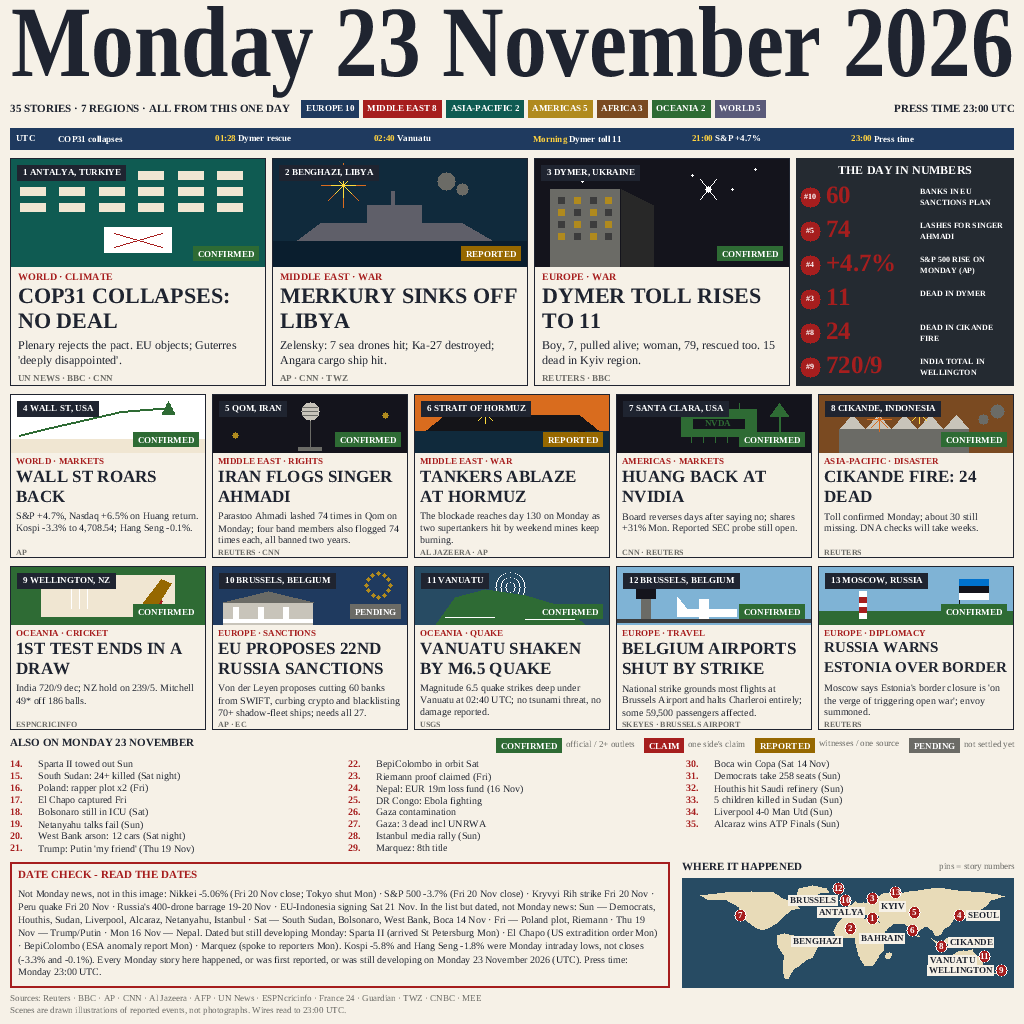
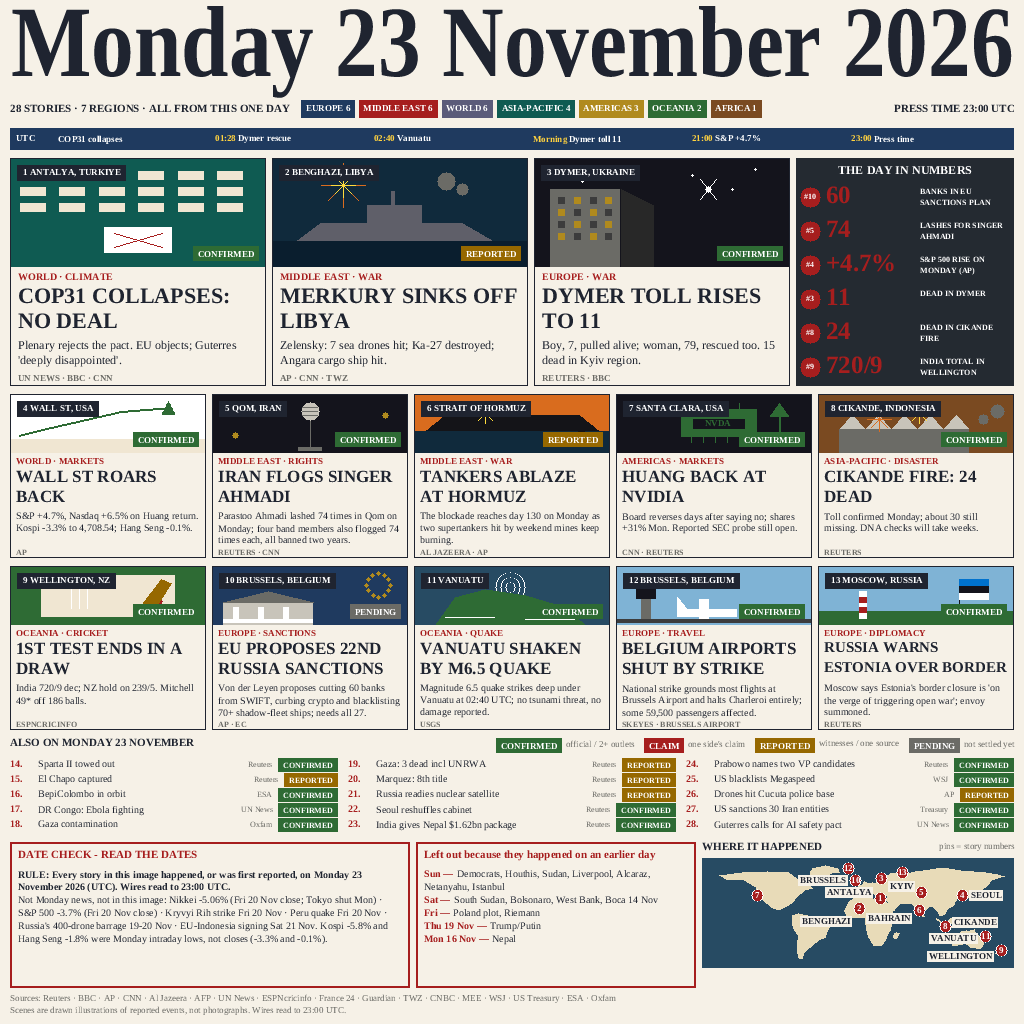
v8: top-3 structure — 28 Monday stories, Left-out box, sources+badges in also-list, strict DATE CHECK rule, map tidied

Changed region(s): [[0.0, 0.7188, 1.0, 0.9688], [0.3438, 0.0938, 0.75, 0.125]]

diff --git a/main.py b/main.py
@@ -36,6 +36,20 @@
 # all 15 Earlier items; stat 258 -> 74 Ahmadi; timeline times yellow;
 # map pins inset + de-clustered; also-list 10px; "#" in the stat discs.
 # Same 35 stories, same region counts, same layout as v6.2.
+# v8 (24 Nov, Ban order — top-3 structure, 28 stories, Left-out box):
+# main list holds ONLY Monday stories (first-reported or developing Mon
+# 23 Nov UTC): 13 pictured unchanged + 15 also-list (7 kept + 8 new
+# Monday stories from V8-NEW-STORIES.md). The 15 non-Monday stories
+# leave the also-list for a new box titled exactly "Left out because
+# they happened on an earlier day", grouped by day with dates. Every
+# also-list row carries a source + status badge (CONFIRMED/REPORTED/
+# CLAIM, same legend as the pictured cards). DATE CHECK's first line is
+# the strict rule + "Wires read to 23:00 UTC". Kicker "28 STORIES",
+# region counts EUROPE 6 / MIDDLE EAST 6 / WORLD 6 / ASIA-PACIFIC 4 /
+# AMERICAS 3 / OCEANIA 2 / AFRICA 1. Structure follows the 22 Nov top-3
+# (rank 1 also-list rows carry region+source; rank 2 DATE CHECK holds
+# the rule + left-out list; rank 3 two-column also-list) — layout only,
+# never their wording.
 
 import os
 import struct
@@ -884,6 +898,12 @@ LAND_POLYS = [NA, GREENLAND, SA, AFRICA, EURASIA, UK, JAPAN, AUSTRALIA, NZ,
 # (story, lon, lat, label or None, label side, label dy, pin dx, pin dy).
 # dx/dy nudge a pin in screen px where the coarse map would stack two
 # discs — every pair is now >=13px apart (measured, see EVALUATION.md).
+# v8: Pacific labels separated by dy, not by stacking: VANUATU sits at
+# pin height (dy +2, rect y 933-944) and WELLINGTON 6px lower (dy +6,
+# rect y 951-962) — 7px clear of each other, 1px clear of Cikande's
+# disc (bottom 932) and of their own discs. (First try dy -14 put the
+# VANUATU label on top of pin 8 / the CIKANDE label — caught by the
+# programmatic pairwise check, not by eye.)
 # Qom (5) and Moscow (13) are unlabeled: their cities are in the cards'
 # location chips, and the cluster has no room for six labels in a
 # 60x30px box. Pin 12 (Belgium airports, also Brussels) is nudged NW
@@ -898,9 +918,9 @@ MAP_PINS = [
     (6, 52.5, 27.5, "BAHRAIN", -1, 8, 18, 8),
     (7, -122.0, 37.4, None, 1, 0, 0, 0),
     (8, 106.5, -7.0, "CIKANDE", 1, -4, 0, 0),
-    (9, 174.5, -41.0, "WELLINGTON", -1, 0, 0, 0),
+    (9, 174.5, -41.0, "WELLINGTON", -1, 6, 0, 0),
     (10, 4.35, 50.85, "BRUSSELS", -1, 0, -6, -6),
-    (11, 167.0, -16.0, "VANUATU", -1, 4, -10, 3),
+    (11, 167.0, -16.0, "VANUATU", -1, 2, -10, 3),
     (12, 4.35, 50.85, None, 1, 0, -13, -18),
     (13, 37.6, 55.75, None, 1, 0, 14, -10),
 ]
@@ -1149,7 +1169,7 @@ def scene(cv, x, y, w, h, kind):
 # labels in caps. Wording is otherwise identical.
 MASTHEAD = "Monday 23 November 2026"
 SUBHEAD = "COP31 collapses \u2014 no deal \u00b7 Merkury sunk off Libya \u00b7 Dymer toll rises to 11"
-TOPLINE = "THE WORLD IN ONE DAY \u00b7 35 STORIES \u00b7 7 REGIONS \u00b7 PRESS TIME 23:00 UTC \u00b7 EVERY STORY DATED MONDAY 23 NOVEMBER 2026"
+TOPLINE = "THE WORLD IN ONE DAY \u00b7 28 STORIES \u00b7 7 REGIONS \u00b7 PRESS TIME 23:00 UTC \u00b7 EVERY STORY DATED MONDAY 23 NOVEMBER 2026"
 
 # Timeline: verified times only (see STORY-LIST.md). (minutes from 00:00 UTC,
 # label, label above the bar?) "MORNING" = verified morning, exact hour
@@ -1232,43 +1252,53 @@ SMALL = [
 ]
 
 ALSO = [
-    # v7: 17 stay in relative order + 5 demoted pictured stories
-    # appended with (Sun) tags; promoted stories left the list.
-    (14, "Sparta II towed out Sun"),
-    (15, "South Sudan: 24+ killed (Sat night)"),
-    (16, "Poland: rapper plot x2 (Fri)"),
-    (17, "El Chapo captured Fri"),
-    (18, "Bolsonaro still in ICU (Sat)"),
-    (19, "Netanyahu talks fail (Sun)"),
-    (20, "West Bank arson: 12 cars (Sat night)"),
-    (21, "Trump: Putin 'my friend' (Thu 19 Nov)"),
-    (22, "BepiColombo in orbit Sat"),
-    (23, "Riemann proof claimed (Fri)"),
-    (24, "Nepal: EUR 19m loss fund (16 Nov)"),
-    (25, "DR Congo: Ebola fighting"),
-    (26, "Gaza contamination"),
-    (27, "Gaza: 3 dead incl UNRWA"),
-    (28, "Istanbul media rally (Sun)"),
-    (29, "M\u00e1rquez: 8th title"),
-    (30, "Boca win Copa (Sat 14 Nov)"),
-    (31, "Democrats take 258 seats (Sun)"),
-    (32, "Houthis hit Saudi refinery (Sun)"),
-    (33, "5 children killed in Sudan (Sun)"),
-    (34, "Liverpool 4-0 Man Utd (Sun)"),
-    (35, "Alcaraz wins ATP Finals (Sun)"),
+    # v8: 15 items, ALL Monday (first-reported or developing Mon 23 Nov
+    # UTC). 7 kept (relative order kept, day tags removed) + 8 new Monday
+    # stories (V8-NEW-STORIES.md). Each row: (number, text, source, badge).
+    # Badge per the legend (CONFIRMED = official / 2+ outlets; REPORTED =
+    # single outlet; CLAIM = one side's claim). Region split: Europe 2
+    # (Sparta II, Marquez), Middle East 3 (Gaza x2, Iran sanctions),
+    # World 4 (BepiColombo, Russia satellite, Megaspeed, Guterres),
+    # Asia-Pacific 3 (Seoul, India-Nepal, Prabowo), Americas 2 (El Chapo,
+    # Cucuta), Africa 1 (DR Congo).
+    (14, "Sparta II towed out", "Reuters", "CONFIRMED"),
+    (15, "El Chapo captured", "Reuters", "REPORTED"),
+    (16, "BepiColombo in orbit", "ESA", "CONFIRMED"),
+    (17, "DR Congo: Ebola fighting", "UN News", "CONFIRMED"),
+    (18, "Gaza contamination", "Oxfam", "CONFIRMED"),
+    (19, "Gaza: 3 dead incl UNRWA", "Reuters", "REPORTED"),
+    (20, "Marquez: 8th title", "Reuters", "REPORTED"),
+    (21, "Russia readies nuclear satellite", "Reuters", "REPORTED"),
+    (22, "Seoul reshuffles cabinet", "Reuters", "CONFIRMED"),
+    (23, "India gives Nepal $1.62bn package", "Reuters", "CONFIRMED"),
+    (24, "Prabowo names two VP candidates", "Reuters", "CONFIRMED"),
+    (25, "US blacklists Megaspeed", "WSJ", "CONFIRMED"),
+    (26, "Drones hit Cucuta police base", "AP", "REPORTED"),
+    (27, "US sanctions 30 Iran entities", "Treasury", "CONFIRMED"),
+    (28, "Guterres calls for AI safety pact", "UN News", "CONFIRMED"),
 ]
 
+# v8: the 15 non-Monday stories, grouped by first-report day, for the
+# "Left out because they happened on an earlier day" box. (day label,
+# names) — the box title is Ban's exact wording.
+LEFTOUT = [
+    ("Sun \u2014", "Democrats, Houthis, Sudan, Liverpool, Alcaraz, Netanyahu, Istanbul"),
+    ("Sat \u2014", "South Sudan, Bolsonaro, West Bank, Boca 14 Nov"),
+    ("Fri \u2014", "Poland plot, Riemann"),
+    ("Thu 19 Nov \u2014", "Trump/Putin"),
+    ("Mon 16 Nov \u2014", "Nepal"),
+]
+
+# v8: DATE CHECK — first line is the strict rule + wire-read time; no
+# dated clause (all 28 stories are Monday). The rule is drawn bold, the
+# rest regular (see build()).
+DATECHECK_RULE = ("RULE: Every story in this image happened, or was first reported, "
+    "on Monday 23 November 2026 (UTC). Wires read to 23:00 UTC.")
 DATECHECK = ("Not Monday news, not in this image: Nikkei -5.06% (Fri 20 Nov close; Tokyo shut Mon) \u00b7 "
     "S&P 500 -3.7% (Fri 20 Nov close) \u00b7 Kryvyi Rih strike Fri 20 Nov \u00b7 Peru quake Fri 20 Nov \u00b7 "
-    "Russia's 400-drone barrage 19-20 Nov \u00b7 EU-Indonesia signing Sat 21 Nov. In the list but dated, "
-    "not Monday news: Sun \u2014 Democrats, Houthis, Sudan, Liverpool, Alcaraz, Netanyahu, Istanbul \u00b7 "
-    "Sat \u2014 South Sudan, Bolsonaro, West Bank, Boca 14 Nov \u00b7 Fri \u2014 Poland plot, Riemann \u00b7 "
-    "Thu 19 Nov \u2014 Trump/Putin \u00b7 Mon 16 Nov \u2014 Nepal. Dated but still developing Monday: "
-    "Sparta II (arrived St Petersburg Mon) \u00b7 El Chapo (US extradition order Mon) \u00b7 "
-    "BepiColombo (ESA anomaly report Mon) \u00b7 Marquez (spoke to reporters Mon). "
+    "Russia's 400-drone barrage 19-20 Nov \u00b7 EU-Indonesia signing Sat 21 Nov. "
     "Kospi -5.8% and Hang Seng -1.8% were Monday intraday lows, "
-    "not closes (-3.3% and -0.1%). Every Monday story here happened, or was first reported, or was "
-    "still developing on Monday 23 November 2026 (UTC). Press time: Monday 23:00 UTC.")
+    "not closes (-3.3% and -0.1%).")
 
 
 # ---------------------------------------------------------------- layout (v5)
@@ -1292,8 +1322,9 @@ CATEGORIES = {
     9: "OCEANIA · CRICKET", 10: "EUROPE · SANCTIONS", 11: "OCEANIA · QUAKE",
     12: "EUROPE · TRAVEL", 13: "EUROPE · DIPLOMACY",
 }
-REGION_COUNTS = [("EUROPE", 10), ("MIDDLE EAST", 8), ("ASIA-PACIFIC", 2),
-                 ("AMERICAS", 5), ("AFRICA", 3), ("OCEANIA", 2), ("WORLD", 5)]
+REGION_COUNTS = [("EUROPE", 6), ("MIDDLE EAST", 6), ("WORLD", 6),
+                 ("ASIA-PACIFIC", 4), ("AMERICAS", 3), ("OCEANIA", 2),
+                 ("AFRICA", 1)]
 STAT_STORIES = [10, 5, 4, 3, 8, 9]
 
 # Zone map (1024px, margins 10) — v7, measured from the render:
@@ -1308,10 +1339,10 @@ STAT_STORIES = [10, 5, 4, 3, 8, 9]
 #     story chip disc r10 with "#n" at 8px, v7: Ban)
 #   SMALL CARDS 394-558, 566-730 (164; scene 58; cat 9px; head 17px 2
 #     lines; deck 10px 2-3 lines; src 8px)
-#   ALSO header+legend 738 | ALSO items 760-844 (3 cols x 8 rows, 10px,
-#     12px pitch; v7: Ban) | DATE CHECK + MAP 862-988 (box 660 wide,
-#     10px text, 13px pitch, 7 lines; map 332x110, 8px/4px geo inset)
-#     | FOOTER 994, 1006 (9px)
+#   ALSO header+legend 738 | ALSO items 760-834 (3 cols x 5 rows, 10px,
+#     15px pitch; v8: source + badge chip per row) | DATE CHECK (400) +
+#     LEFT-OUT box (280) + MAP (312x110) 842-988 (boxes 146 tall) |
+#     FOOTER 994, 1006 (9px)
 # "TURKIYE" is spelled without the diaeresis: the glyph set has no Ü
 # (same as v4's "Marquez" — the á is not in the set either).
 def build():
@@ -1326,10 +1357,10 @@ def build():
     # geometry: ~1003px wide, 66px cap, full-bleed like #2's 1000px.
     draw_text_c(cv, W // 2, 5, MASTHEAD, 101, INK, bold=True, xscale=0.845)
 
-    # kicker: "35 STORIES · 7 REGIONS · ALL FROM THIS ONE DAY" + region
+    # kicker: "28 STORIES · 7 REGIONS · ALL FROM THIS ONE DAY" + region
     # chips + "PRESS TIME 23:00 UTC" right (like #2's kicker line).
     ky = 100
-    kicker = "35 STORIES \u00b7 7 REGIONS \u00b7 ALL FROM THIS ONE DAY"
+    kicker = "28 STORIES \u00b7 7 REGIONS \u00b7 ALL FROM THIS ONE DAY"
     draw_text(cv, mx, ky + 4, kicker, 11, INK, bold=True)
     kx = mx + int(text_width(kicker, 11, bold=True)) + 12
     chip_size = 9.0
@@ -1444,28 +1475,57 @@ def build():
         draw_text(cv, lx, ay + 2, desc, 9, GREY)
         lx += dw + 10
 
-    # also-list: 3 columns x 8 rows, 10px (v7: Ban), 12px pitch
-    for i, (n, txt) in enumerate(ALSO):
-        col = i // 8
-        row = i % 8
+    # also-list: 3 columns x 5 rows, 10px, 15px pitch (v8: every row
+    # carries a source + status badge chip, like #1's region+source rows
+    # and #2's badge legend). Badge size 8 (chip h 14) leaves a 1px gap
+    # between rows at 15px pitch. Right edge of each column's badge is
+    # ax+328 (<=1014 on the last column).
+    for i, (n, txt, src, bdg) in enumerate(ALSO):
+        col = i // 5
+        row = i % 5
         ax = mx + col * 338
-        ay2 = 760 + row * 12
+        ay2 = 760 + row * 15
         draw_text(cv, ax, ay2, str(n) + ".", 10, RED, bold=True)
         draw_text(cv, ax + 28, ay2, txt, 10, INK)
+        bw = int(text_width(bdg, 8, bold=True)) + 10
+        bx = ax + 328 - bw
+        sw = int(text_width(src, 8))
+        draw_text(cv, bx - 6 - sw, ay2 + 1, src, 8, GREY)
+        badge(cv, bx, ay2 - 2, bdg, size=8)
 
-    # date check (left) + map (right), side by side like #2
-    dy = 862
-    cv.rect(mx, dy, 660, 126, RED, 2)
+    # bottom row (v8): DATE CHECK (400) + LEFT-OUT box (280) + MAP (312),
+    # boxes 146 tall. DATE CHECK first line is the strict rule, drawn
+    # bold; the rest regular. LEFT-OUT title is Ban's exact wording.
+    dy = 842
+    cv.rect(mx, dy, 400, 146, RED, 2)
     draw_text(cv, mx + 8, dy + 8, "DATE CHECK - READ THE DATES", 11, RED,
               bold=True)
-    text_block(cv, mx + 8, dy + 28, DATECHECK, 10, INK, 644, 13)
-    draw_text(cv, 682, dy, "WHERE IT HAPPENED", 11, INK, bold=True)
+    nrule = text_block(cv, mx + 8, dy + 28, DATECHECK_RULE, 10, INK, 384,
+                       13, bold=True)
+    text_block(cv, mx + 8, dy + 28 + nrule * 13, DATECHECK, 10, INK, 384,
+               13)
+    lx0 = mx + 400 + 6
+    cv.rect(lx0, dy, 280, 146, RED, 2)
+    draw_text(cv, lx0 + 8, dy + 8,
+              "Left out because they happened on an earlier day", 11, RED,
+              bold=True)
+    ly = dy + 28
+    for day, names in LEFTOUT:
+        dw = int(text_width(day, 10, bold=True))
+        draw_text(cv, lx0 + 8, ly, day, 10, RED, bold=True)
+        lines = wrap(names, 264 - dw, 10)
+        for j, ln in enumerate(lines):
+            draw_text(cv, lx0 + 8 + (dw + 4 if j == 0 else 0),
+                      ly + j * 13, ln, 10, INK)
+        ly += len(lines) * 13
+    mx0 = lx0 + 280 + 6
+    draw_text(cv, mx0, dy, "WHERE IT HAPPENED", 11, INK, bold=True)
     draw_text(cv, W - mx - int(text_width("pins = story numbers", 9)), dy,
               "pins = story numbers", 9, GREY)
-    draw_map(cv, 682, dy + 16, 332, 110)
+    draw_map(cv, mx0, dy + 16, 312, 110)
 
     # footer (2 lines)
-    draw_text(cv, mx, 994, "Sources: Reuters \u00b7 BBC \u00b7 AP \u00b7 CNN \u00b7 Al Jazeera \u00b7 AFP \u00b7 UN News \u00b7 ESPNcricinfo \u00b7 France 24 \u00b7 Guardian \u00b7 TWZ \u00b7 CNBC \u00b7 MEE", 9, GREY)
+    draw_text(cv, mx, 994, "Sources: Reuters \u00b7 BBC \u00b7 AP \u00b7 CNN \u00b7 Al Jazeera \u00b7 AFP \u00b7 UN News \u00b7 ESPNcricinfo \u00b7 France 24 \u00b7 Guardian \u00b7 TWZ \u00b7 CNBC \u00b7 MEE \u00b7 WSJ \u00b7 US Treasury \u00b7 ESA \u00b7 Oxfam", 9, GREY)
     draw_text(cv, mx, 1006, "Scenes are drawn illustrations of reported events, not photographs. Wires read to 23:00 UTC.", 9, GREY)
     return cv
 
